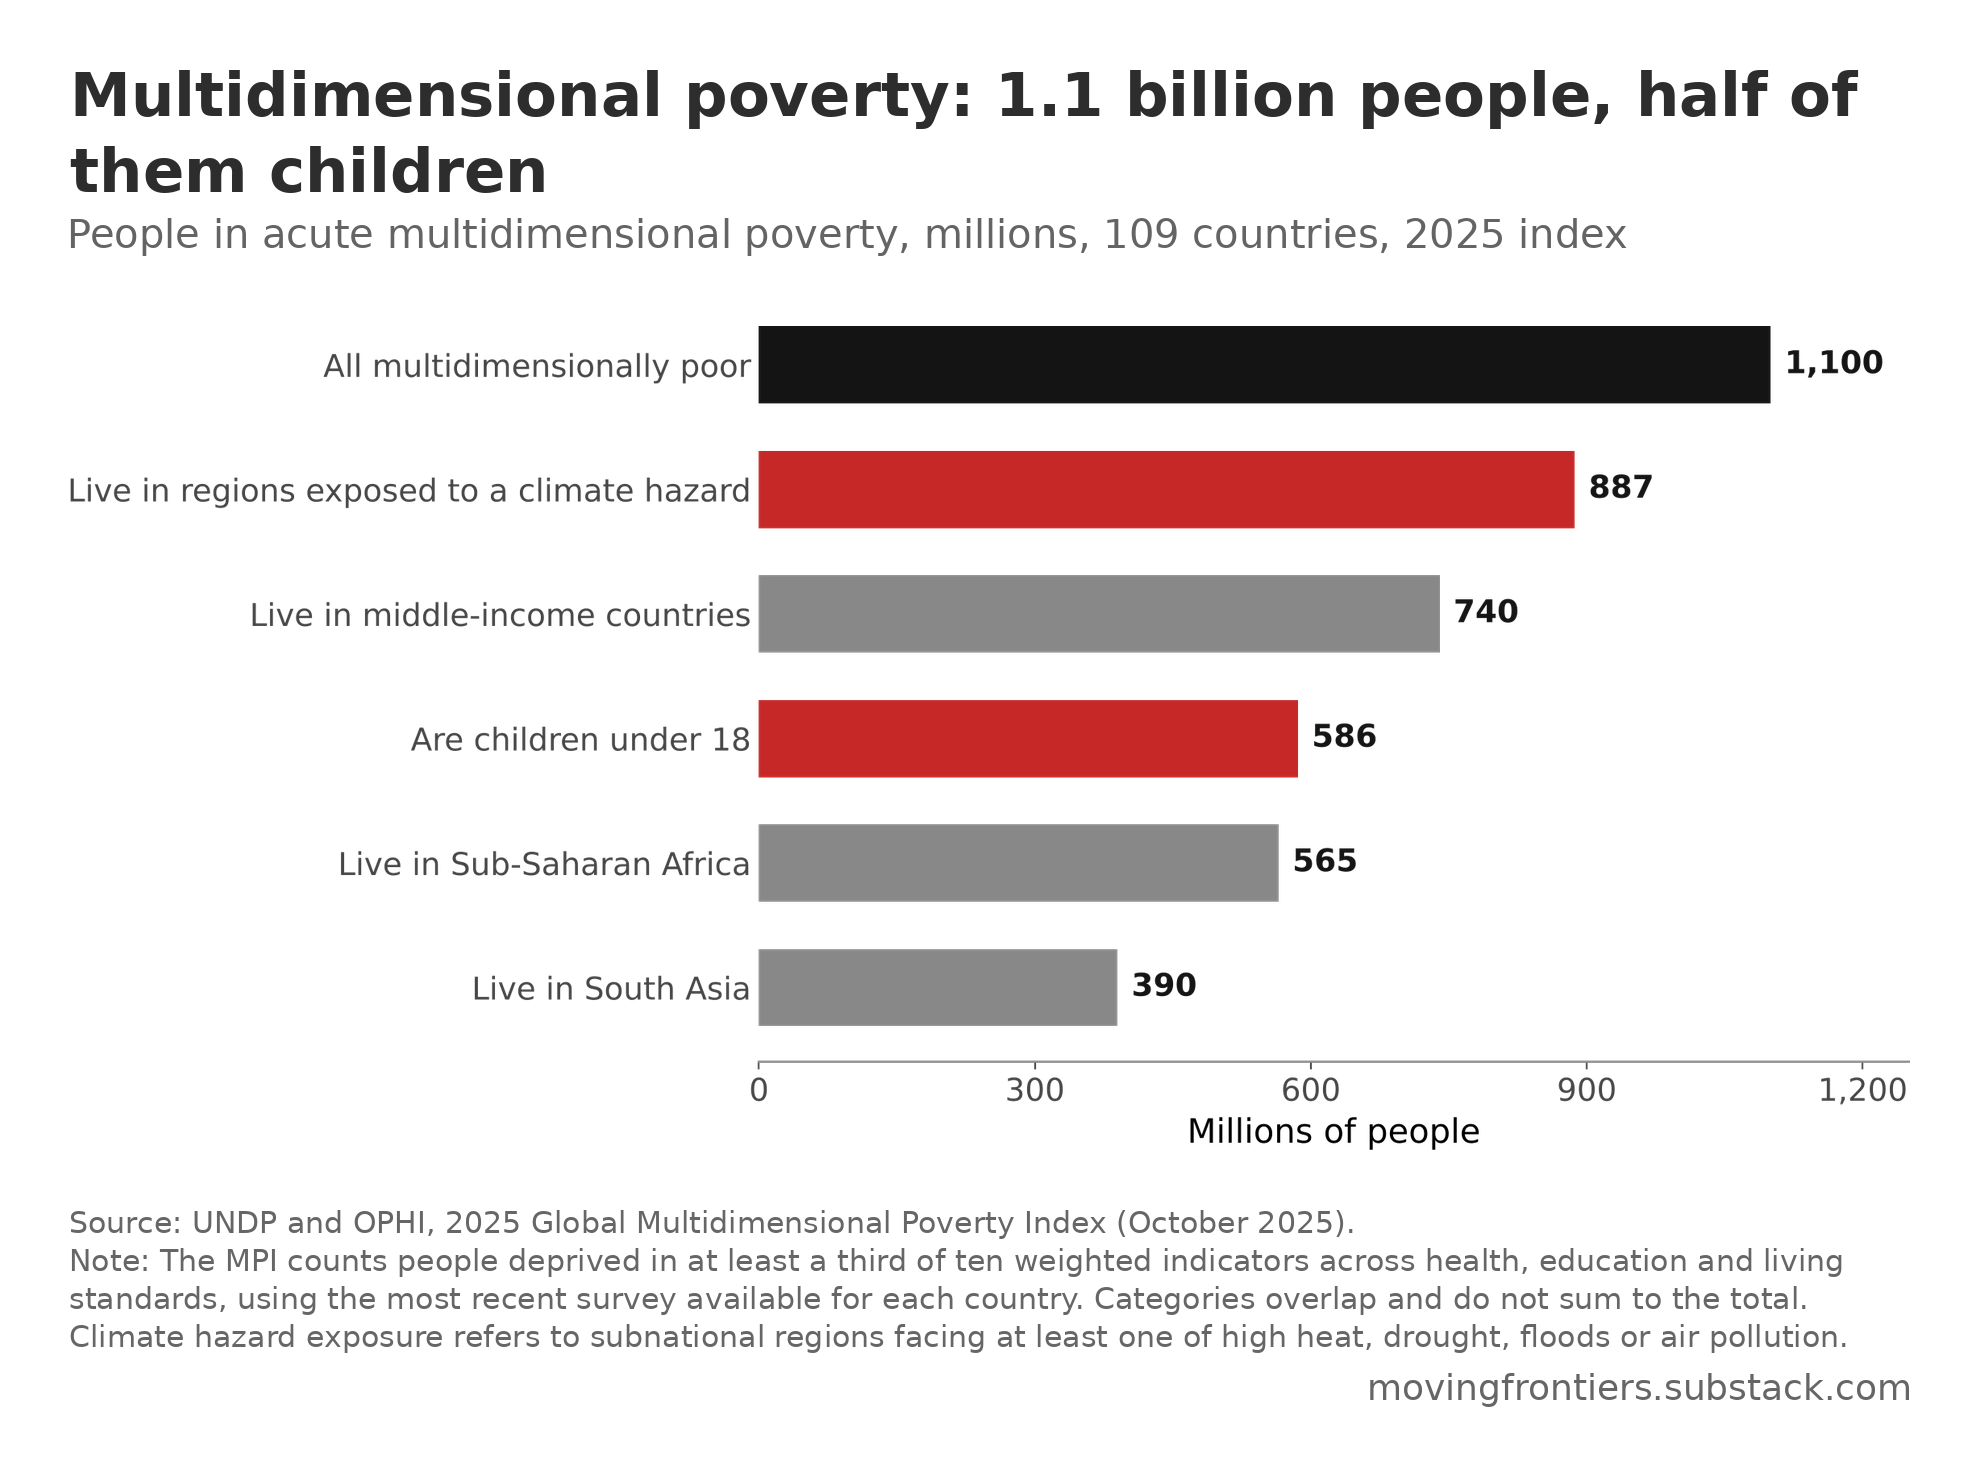
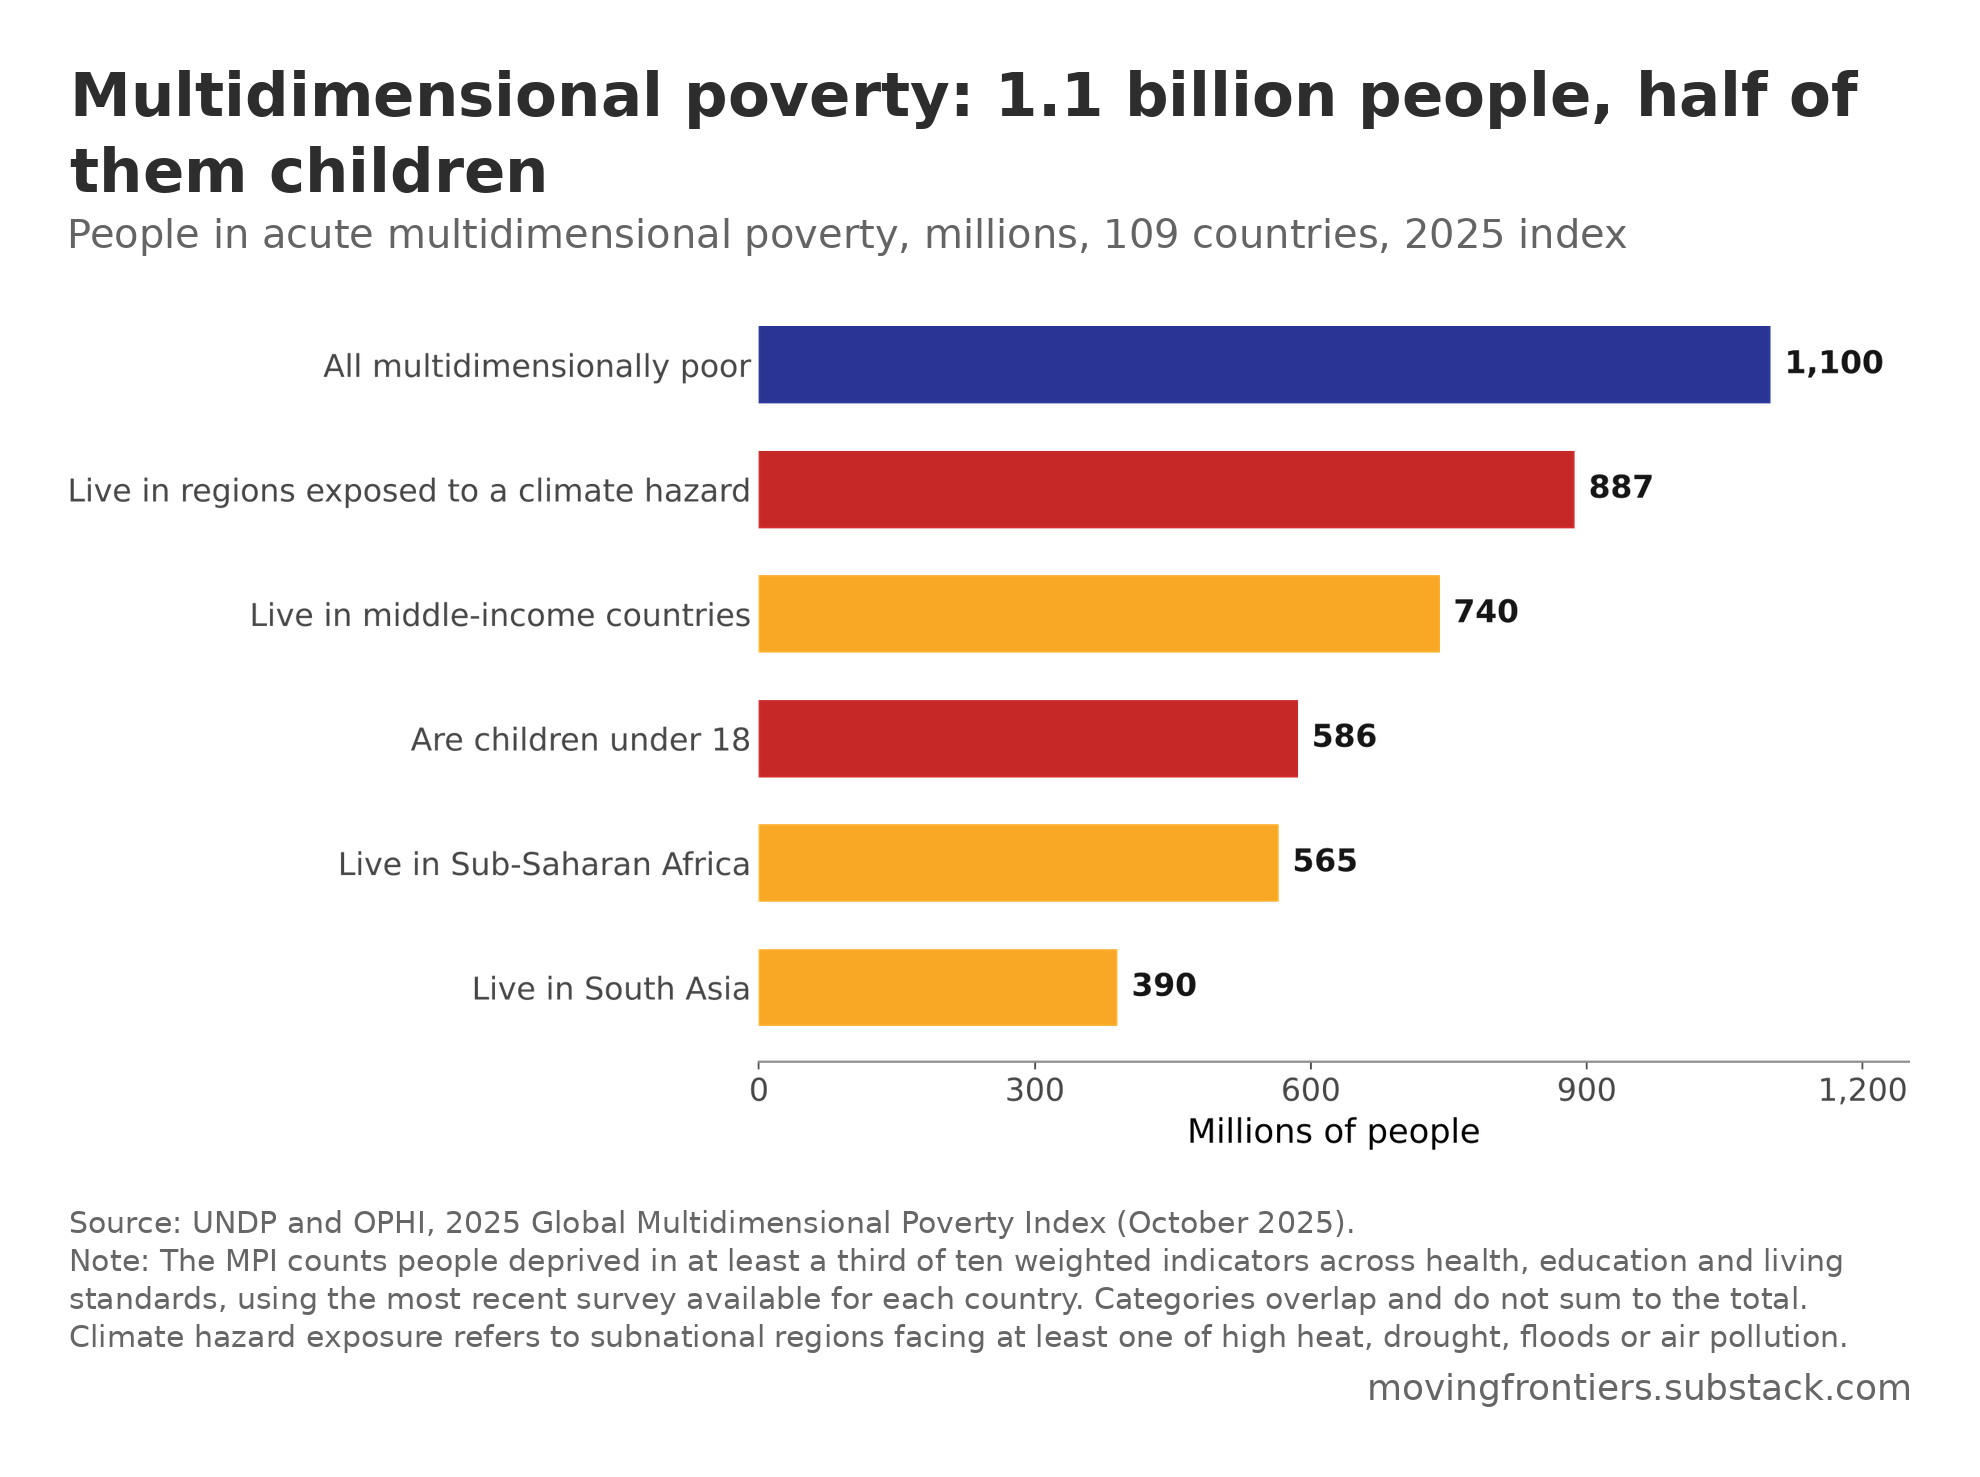
c

Changed region(s): [[0.3697, 0.5606, 0.647, 0.7163], [0.3697, 0.3737, 0.7394, 0.4672], [0.3697, 0.218, 0.8934, 0.2803]]

diff --git a/20261009-deafening-silence-on-the-poor/chart-6-fragile-conflict-settings.py b/20261009-deafening-silence-on-the-poor/chart-6-fragile-conflict-settings.py
@@ -136,7 +136,7 @@ world_2025 = 837.2
 fcs_2025, fcs_2030 = 421.0, 435.0
 rest_2025 = round(world_2025 - fcs_2025, 1)
 rows = [("Conflict or instability\naffected economies, 2025", fcs_2025, RED, f"{fcs_2025:,.0f}m  (50% of world)"),
-        ("All other economies, 2025", rest_2025, GREY, f"{rest_2025:,.0f}m  (50% of world)"),
+        ("All other economies, 2025", rest_2025, BLUE, f"{rest_2025:,.0f}m  (50% of world)"),
         ("Conflict or instability\naffected economies, 2030 projection", fcs_2030, RED, f"{fcs_2030:,.0f}m  (nearly 60% of world)")]
 
 fig = new_figure(9.2, 5.4)
@@ -159,7 +159,7 @@ compose(render_plot(fig),
         title="Half the world's extreme poor live in economies affected by conflict or instability",
         subtitle="People below $3.00 a day, millions, 2025 and World Bank projection for 2030",
         source="World Bank, Fragility and Conflict: On the Front Lines of the Fight against Poverty (June 2025); World Bank Poverty and Inequality Platform (March 2026) for the world total.",
-        note="The 39 economies are those on the World Bank's 2025 list of fragile and conflict-affected situations, 21 of them in active conflict. The 2030 bar is hatched to mark a projection. Their extreme poverty rate is about 40 percent against 6 percent in other developing economies; per capita GDP there has fallen 1.8 percent a year since 2020 and only about half of the working-age population was employed in 2022.",
+        note="The 39 economies are those on the World Bank's 2025 list of fragile and conflict-affected situations, 21 of them in active conflict. The 2030 bar is hatched to mark a projection.",
         out="chart-6-fragile-conflict-settings.png", csv="chart-6-fragile-conflict-settings.csv",
         csv_rows=[["group", "poor_millions_2025"], ["conflict or instability affected economies", fcs_2025],
                   ["all other economies", rest_2025], ["conflict affected economies, 2030 projection", fcs_2030]])

diff --git a/scripts/chart-6-fragile-conflict-settings.py b/scripts/chart-6-fragile-conflict-settings.py
@@ -136,7 +136,7 @@ world_2025 = 837.2
 fcs_2025, fcs_2030 = 421.0, 435.0
 rest_2025 = round(world_2025 - fcs_2025, 1)
 rows = [("Conflict or instability\naffected economies, 2025", fcs_2025, RED, f"{fcs_2025:,.0f}m  (50% of world)"),
-        ("All other economies, 2025", rest_2025, GREY, f"{rest_2025:,.0f}m  (50% of world)"),
+        ("All other economies, 2025", rest_2025, BLUE, f"{rest_2025:,.0f}m  (50% of world)"),
         ("Conflict or instability\naffected economies, 2030 projection", fcs_2030, RED, f"{fcs_2030:,.0f}m  (nearly 60% of world)")]
 
 fig = new_figure(9.2, 5.4)
@@ -159,7 +159,7 @@ compose(render_plot(fig),
         title="Half the world's extreme poor live in economies affected by conflict or instability",
         subtitle="People below $3.00 a day, millions, 2025 and World Bank projection for 2030",
         source="World Bank, Fragility and Conflict: On the Front Lines of the Fight against Poverty (June 2025); World Bank Poverty and Inequality Platform (March 2026) for the world total.",
-        note="The 39 economies are those on the World Bank's 2025 list of fragile and conflict-affected situations, 21 of them in active conflict. The 2030 bar is hatched to mark a projection. Their extreme poverty rate is about 40 percent against 6 percent in other developing economies; per capita GDP there has fallen 1.8 percent a year since 2020 and only about half of the working-age population was employed in 2022.",
+        note="The 39 economies are those on the World Bank's 2025 list of fragile and conflict-affected situations, 21 of them in active conflict. The 2030 bar is hatched to mark a projection.",
         out="chart-6-fragile-conflict-settings.png", csv="chart-6-fragile-conflict-settings.csv",
         csv_rows=[["group", "poor_millions_2025"], ["conflict or instability affected economies", fcs_2025],
                   ["all other economies", rest_2025], ["conflict affected economies, 2030 projection", fcs_2030]])

diff --git a/20261009-deafening-silence-on-the-poor/chart-5-who-are-the-extreme-poor.py b/20261009-deafening-silence-on-the-poor/chart-5-who-are-the-extreme-poor.py
@@ -136,8 +136,8 @@ total = 846.8
 children, workers = 412.0, 284.0
 other = round(total - children - workers, 1)
 rows = [("Children under 18", children, RED),
-        ("Adults who work", workers, BLUE),
-        ("Other adults (older, disabled, carers, unemployed)", other, GREY)]
+        ("Adults who work", workers, GOLD),
+        ("Other adults (older, disabled, carers, unemployed)", other, BLUE)]
 
 fig = new_figure(9.2, 4.6)
 ax = fig.add_subplot(111)
@@ -145,7 +145,7 @@ left = 0
 for lab, v, c in rows:
     ax.barh([0], [v], left=left, color=c, height=0.55, label=lab)
     ax.text(left + v / 2, 0, f"{v:,.0f}m\n{v / total:.0%}", ha="center", va="center", fontsize=14,
-            color="white" if c != GREY else INK, fontweight="bold", linespacing=1.3)
+            color=INK if c == GOLD else "white", fontweight="bold", linespacing=1.3)
     left += v
 ax.set_xlim(0, total)
 ax.set_ylim(-0.4, 0.4)

diff --git a/scripts/chart-5-who-are-the-extreme-poor.py b/scripts/chart-5-who-are-the-extreme-poor.py
@@ -136,8 +136,8 @@ total = 846.8
 children, workers = 412.0, 284.0
 other = round(total - children - workers, 1)
 rows = [("Children under 18", children, RED),
-        ("Adults who work", workers, BLUE),
-        ("Other adults (older, disabled, carers, unemployed)", other, GREY)]
+        ("Adults who work", workers, GOLD),
+        ("Other adults (older, disabled, carers, unemployed)", other, BLUE)]
 
 fig = new_figure(9.2, 4.6)
 ax = fig.add_subplot(111)
@@ -145,7 +145,7 @@ left = 0
 for lab, v, c in rows:
     ax.barh([0], [v], left=left, color=c, height=0.55, label=lab)
     ax.text(left + v / 2, 0, f"{v:,.0f}m\n{v / total:.0%}", ha="center", va="center", fontsize=14,
-            color="white" if c != GREY else INK, fontweight="bold", linespacing=1.3)
+            color=INK if c == GOLD else "white", fontweight="bold", linespacing=1.3)
     left += v
 ax.set_xlim(0, total)
 ax.set_ylim(-0.4, 0.4)

diff --git a/20261009-deafening-silence-on-the-poor/chart-3-multidimensional-poverty.py b/20261009-deafening-silence-on-the-poor/chart-3-multidimensional-poverty.py
@@ -131,12 +131,12 @@ def verify(path, heights):
 
 # 2025 Global MPI (UNDP and OPHI, October 2025). Millions of people.
 rows = [
-    ("All multidimensionally poor", 1100, INK),
+    ("All multidimensionally poor", 1100, BLUE),
     ("Live in regions exposed to a climate hazard", 887, RED),
-    ("Live in middle-income countries", 740, GREY),
+    ("Live in middle-income countries", 740, GOLD),
     ("Are children under 18", 586, RED),
-    ("Live in Sub-Saharan Africa", 565, GREY),
-    ("Live in South Asia", 390, GREY),
+    ("Live in Sub-Saharan Africa", 565, GOLD),
+    ("Live in South Asia", 390, GOLD),
 ]
 labels = [r[0] for r in rows][::-1]
 vals = [r[1] for r in rows][::-1]

diff --git a/scripts/chart-3-multidimensional-poverty.py b/scripts/chart-3-multidimensional-poverty.py
@@ -131,12 +131,12 @@ def verify(path, heights):
 
 # 2025 Global MPI (UNDP and OPHI, October 2025). Millions of people.
 rows = [
-    ("All multidimensionally poor", 1100, INK),
+    ("All multidimensionally poor", 1100, BLUE),
     ("Live in regions exposed to a climate hazard", 887, RED),
-    ("Live in middle-income countries", 740, GREY),
+    ("Live in middle-income countries", 740, GOLD),
     ("Are children under 18", 586, RED),
-    ("Live in Sub-Saharan Africa", 565, GREY),
-    ("Live in South Asia", 390, GREY),
+    ("Live in Sub-Saharan Africa", 565, GOLD),
+    ("Live in South Asia", 390, GOLD),
 ]
 labels = [r[0] for r in rows][::-1]
 vals = [r[1] for r in rows][::-1]
